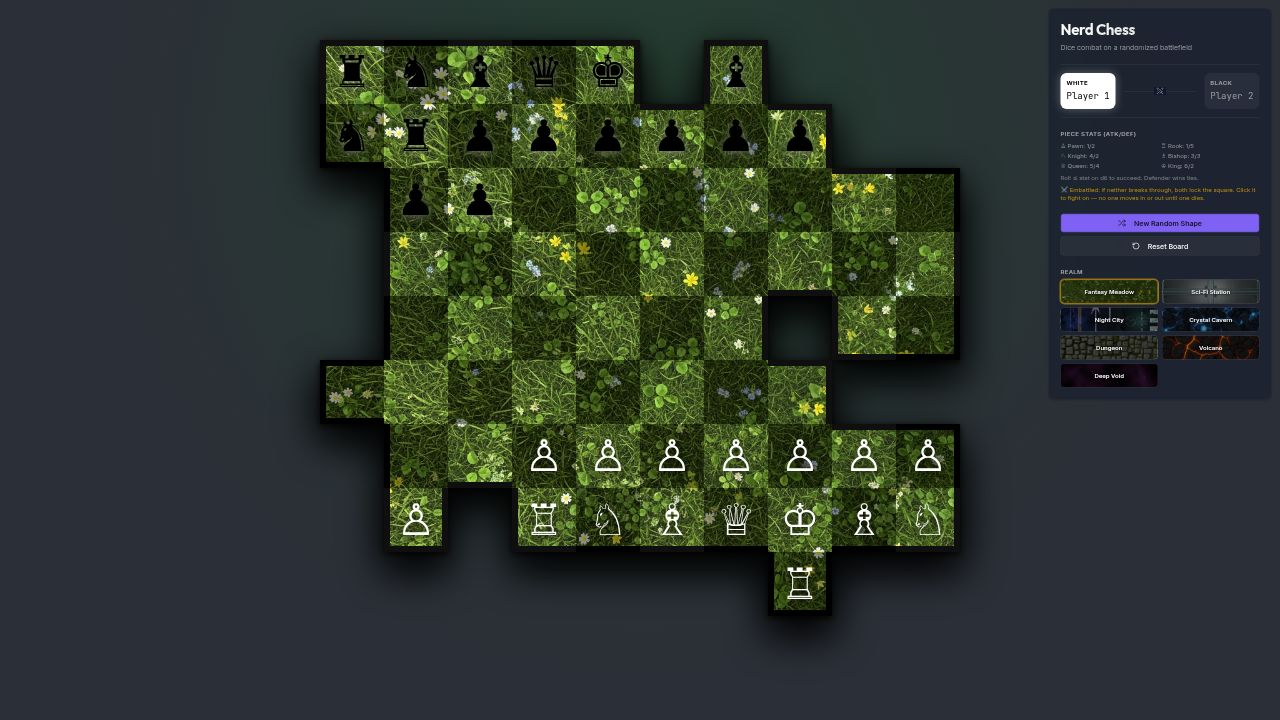
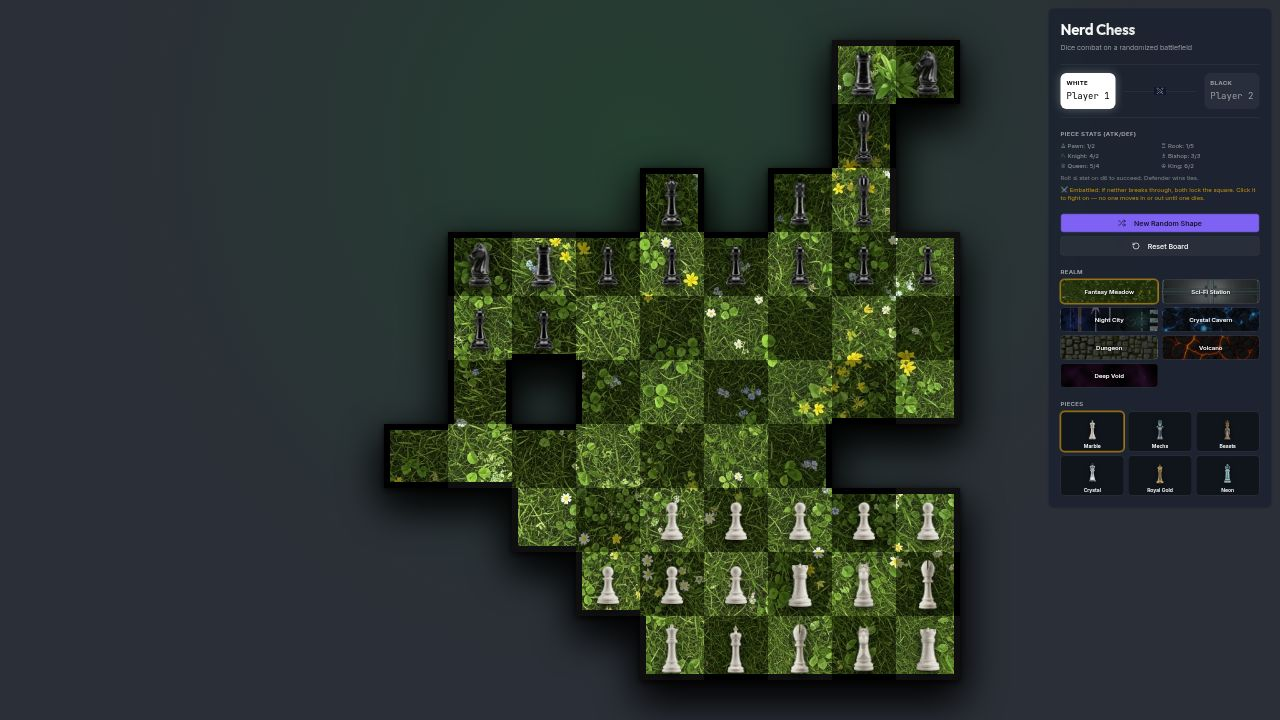
Update game board layout and piece movement with expanded grid
Adjusted board generation to create a solid interior without holes, increased grid size to 12x12, and ensured pieces are movable by fixing the drag-and-drop source element.

Replit-Commit-Author: Agent
Replit-Commit-Session-Id: f3e3f0ce-dd2f-42f6-bda1-d2cb76308eb7
Replit-Commit-Checkpoint-Type: full_checkpoint
Replit-Commit-Event-Id: ec5e2eb0-6bed-42fa-901d-d6f6c56a44ca
Replit-Commit-Screenshot-Url: https://storage.googleapis.com/screenshot-production-us-central1/e55a0601-a798-4d94-9aba-74c20afbb966/f3e3f0ce-dd2f-42f6-bda1-d2cb76308eb7/jptRdv7
Replit-Helium-Checkpoint-Created: true

diff --git a/client/src/pages/home.tsx b/client/src/pages/home.tsx
@@ -108,7 +108,7 @@ const PIECE_UNICODE: { [key in PieceType]: string } = {
   'k': '♚', 'q': '♛', 'r': '♜', 'b': '♝', 'n': '♞', 'p': '♟',
 };
 
-const GRID_SIZE = 10;
+const GRID_SIZE = 12;
 
 const BLACK_BACK: PieceType[] = ['r', 'n', 'b', 'q', 'k', 'b', 'n', 'r'];
 const WHITE_BACK: PieceType[] = ['R', 'N', 'B', 'Q', 'K', 'B', 'N', 'R'];
@@ -158,7 +158,7 @@ function generateShape(): string[] {
   const startC = Math.floor(GRID_SIZE / 2);
   active.add(`${startR},${startC}`);
 
-  const target = 54 + Math.floor(Math.random() * 16); // 54-69 cells (holes punched later)
+  const target = 72 + Math.floor(Math.random() * 21); // 72-92 cells (solid organic blob)
   const dirs = [[1, 0], [-1, 0], [0, 1], [0, -1]];
   let guard = 0;
 
@@ -289,8 +289,45 @@ function punchHoles(sortedCells: string[]): string[] {
   return Array.from(active);
 }
 
+// Fill any empty cells fully enclosed by the board so the interior has no uninhabitable holes
+function fillInteriorHoles(cells: string[]): string[] {
+  const active = new Set(cells);
+  const reachable = new Set<string>();
+  const queue: [number, number][] = [];
+  for (let r = 0; r < GRID_SIZE; r++) {
+    for (let c = 0; c < GRID_SIZE; c++) {
+      if (r === 0 || c === 0 || r === GRID_SIZE - 1 || c === GRID_SIZE - 1) {
+        const k = `${r},${c}`;
+        if (!active.has(k) && !reachable.has(k)) {
+          reachable.add(k);
+          queue.push([r, c]);
+        }
+      }
+    }
+  }
+  while (queue.length) {
+    const [r, c] = queue.shift()!;
+    for (const [dr, dc] of [[1, 0], [-1, 0], [0, 1], [0, -1]] as const) {
+      const nr = r + dr, nc = c + dc;
+      if (nr < 0 || nc < 0 || nr >= GRID_SIZE || nc >= GRID_SIZE) continue;
+      const k = `${nr},${nc}`;
+      if (!active.has(k) && !reachable.has(k)) {
+        reachable.add(k);
+        queue.push([nr, nc]);
+      }
+    }
+  }
+  for (let r = 0; r < GRID_SIZE; r++) {
+    for (let c = 0; c < GRID_SIZE; c++) {
+      const k = `${r},${c}`;
+      if (!active.has(k) && !reachable.has(k)) active.add(k);
+    }
+  }
+  return Array.from(active);
+}
+
 // Generate a random board shape with armies placed on it
-function generateBoard(withObstacles: boolean): { active: string[]; board: BoardState; blocked: string[] } {
+function generateBoard(_withObstacles: boolean): { active: string[]; board: BoardState; blocked: string[] } {
   const sortFn = (a: string, b: string) => {
     const [ra, ca] = a.split(',').map(Number);
     const [rb, cb] = b.split(',').map(Number);
@@ -298,18 +335,10 @@ function generateBoard(withObstacles: boolean): { active: string[]; board: Board
   };
 
   let cells = generateShape();
+  cells = fillInteriorHoles(cells);
   cells.sort(sortFn);
 
-  cells = punchHoles(cells);
-  cells.sort(sortFn);
-
-  let blocked: string[] = [];
-  if (withObstacles) {
-    const carved = carveObstacles(cells);
-    cells = carved.active;
-    cells.sort(sortFn);
-    blocked = carved.blocked;
-  }
+  const blocked: string[] = [];
 
   const board: BoardState = {};
 
@@ -808,10 +837,10 @@ export default function Home() {
         </div>
       )}
 
-      <div className="relative z-10 w-full flex items-center justify-center">
+      <div className="relative z-10 w-full flex items-center justify-start">
 
-        {/* Game Info Panel (legend) — scaled to 50% in the top-right corner */}
-        <div className="fixed top-2 right-2 z-40 origin-top-right scale-[0.5] w-[28rem]">
+        {/* Game Info Panel (legend) — fixed in the top-right corner */}
+        <div className="fixed top-2 right-2 z-40 origin-top-right scale-[1] w-[28rem]">
           <Card className="glass-card p-6 space-y-6 text-white border-white/10">
             <div className="space-y-2">
               <h1 className="text-3xl font-display font-bold text-transparent bg-clip-text bg-gradient-to-r from-white to-white/70">
@@ -1005,14 +1034,12 @@ export default function Home() {
                       </div>
                     )}
                     {pieces.map((piece, index) => (
-                      <img
+                      <div
                         key={`${piece}-${index}`}
-                        src={pieceImage(pieceSet, piece)}
-                        alt={PIECE_STATS[piece].name}
                         draggable={!isAnimating && !winner && !isEmbattled}
                         onDragStart={(e) => handleDragStart(e, square, piece)}
                         onDragEnd={handleDragEnd}
-                        className={`absolute inset-0 m-auto select-none object-contain cursor-grab active:cursor-grabbing transition-transform hover:scale-110 drop-shadow-[0_3px_5px_rgba(0,0,0,0.85)] ${isAnimating ? 'pointer-events-none' : ''}`}
+                        className={`absolute inset-0 m-auto flex items-center justify-center cursor-grab active:cursor-grabbing transition-transform hover:scale-110 ${isAnimating ? 'pointer-events-none' : ''}`}
                         style={{
                           width: squareSize * 0.92,
                           height: squareSize * 0.92,
@@ -1020,7 +1047,14 @@ export default function Home() {
                           transform: pieces.length > 1 ? `translate(${index * 4}px, ${index * -4}px)` : undefined,
                         }}
                         data-testid={`piece-${square}-${index}`}
-                      />
+                      >
+                        <img
+                          src={pieceImage(pieceSet, piece)}
+                          alt={PIECE_STATS[piece].name}
+                          draggable={false}
+                          className="w-full h-full object-contain pointer-events-none select-none drop-shadow-[0_3px_5px_rgba(0,0,0,0.85)]"
+                        />
+                      </div>
                     ))}
                   </div>
                 );

diff --git a/.agents/memory/nerd-chess-design.md b/.agents/memory/nerd-chess-design.md
@@ -32,7 +32,17 @@ Frontend-only React prototype (mockup_js stack). Entire game lives in `client/sr
 - `pieceSet` is persisted in localStorage alongside `theme` (validated in `loadSavedState`, `DEFAULT_SET='classic'`). Switching sets (`applyPieceSet`) does NOT regenerate the board — only swaps art.
 - Generation prompt recipe (in case of regen): "<piece form>, rendered as a <style base>, <color finish>. Single isolated game piece, centered, upright front view... plain flat solid light gray background" + `removeBackground:true`. The flat gray bg makes background removal clean (corners come out alpha 0).
 
-## Holes, corridors & obstacles
+## Drag & drop source element
+- The draggable DnD source MUST be a `<div>` wrapper, NOT the `<img>` itself. Making an `<img>` the drag source breaks the custom HTML5 drag/drop (native image dragging hijacks it) — pieces become unmovable. Keep the piece `<img>` as `draggable={false}` + `pointer-events-none` inside a draggable `<div>` that carries `onDragStart`/`onDragEnd`/`draggable`. **Why:** a regression where pieces couldn't be moved was caused exactly by putting handlers on the img.
+
+## Board shape: solid interior, organic edges only
+- The interior must have NO uninhabitable squares (user requirement). `punchHoles` and `carveObstacles` are RETIRED (defined but uncalled). `generateBoard` calls `fillInteriorHoles(cells)` to flood-fill from the grid border and fill any fully-enclosed empty pocket, guaranteeing a solid interior. Only perimeter concavities (inlets open to the edge) remain — that is the intended organic silhouette.
+- GRID_SIZE is 12 (raised from 10 for ~20% more squares). `generateShape` target 72-92 cells.
+
+## Layout
+- Legend/info panel is a `fixed top-2 right-2` Card. It renders at full size (`scale-[1]`); it was previously `scale-[0.5]`. The board wrapper uses `justify-start` (board flush-left), not `justify-center`.
+
+## Holes, corridors & obstacles (HISTORICAL — superseded by "solid interior" above)
 - `punchHoles` (called for ALL boards, ~82% chance): removes 2-5 interior hole clusters (1-3 cells) from interior cells only (≥3 active neighbors), protecting first/last 18 sorted (army rows), never below 40 cells. Holes are inactive/transparent (page bg shows through). **Why:** user wanted boards with holes/corridors, not a solid block.
 - **The board must always be a SINGLE connected piece.** `punchHoles` reverts any hole removal that disconnects the active set (`isConnected` BFS check, re-adds the cells). Do not remove this — the user explicitly required no disconnected islands.
 - Enclosed themes (cavern/dungeon/volcano) additionally carve themed hazards via `carveObstacles`: 2-4 clusters of 1-3 cells. Invariants: army rows protected, `active ∩ blocked = ∅`, playable area stays 4-connected (`isConnected` BFS before each carve).
